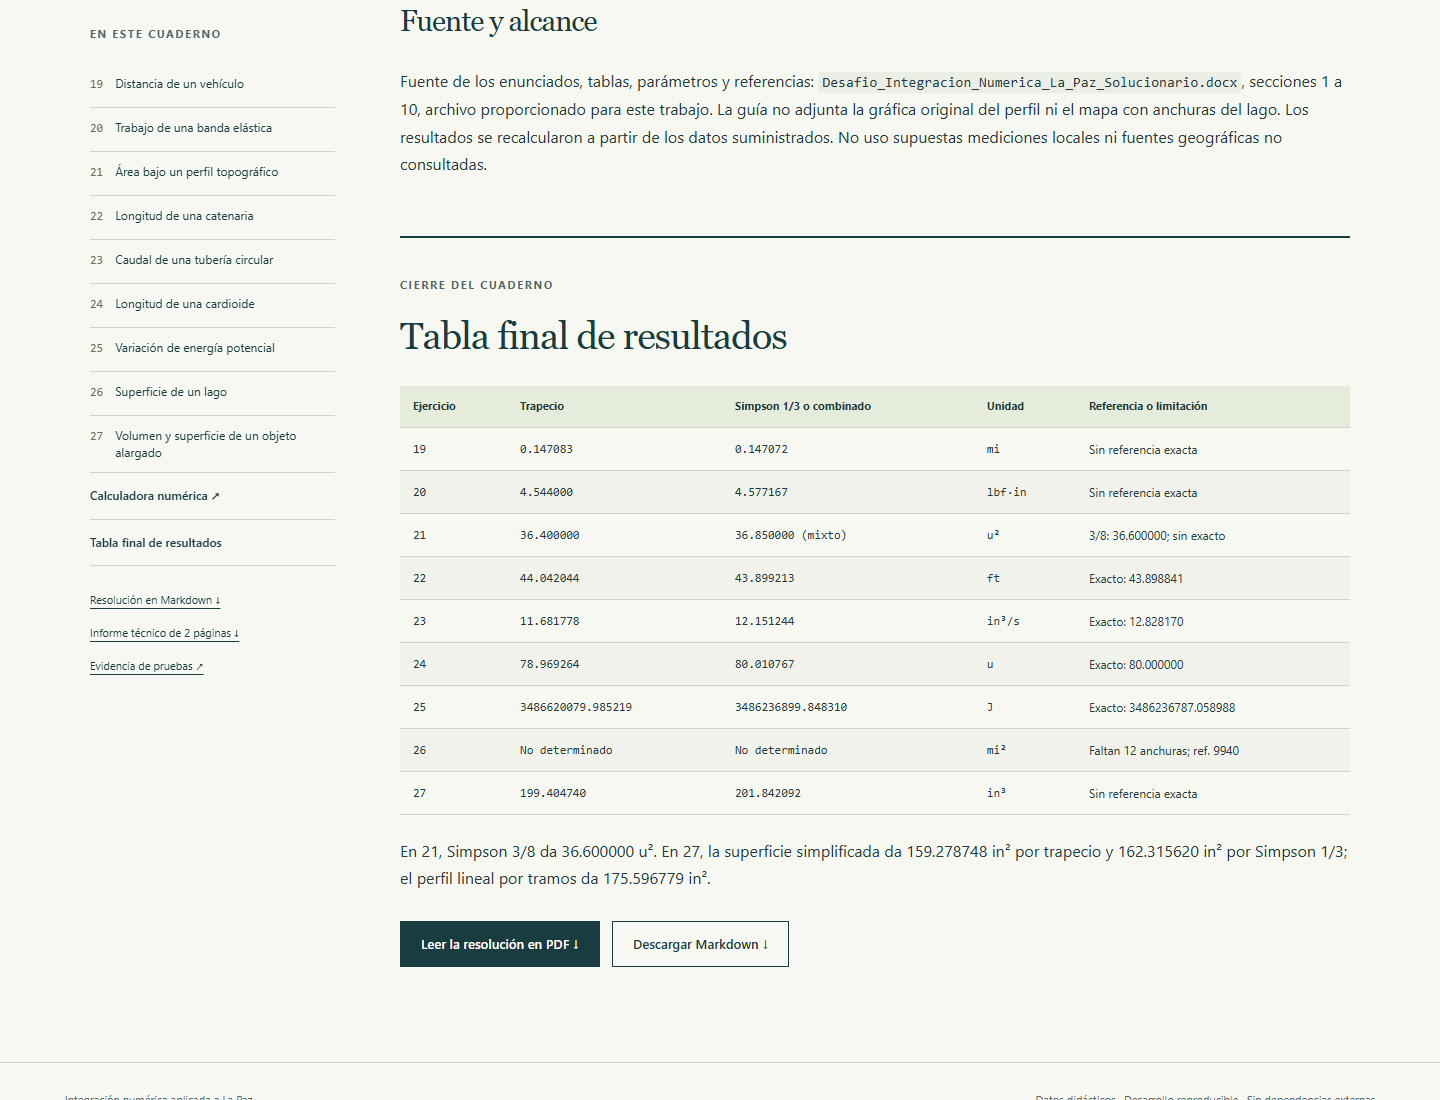
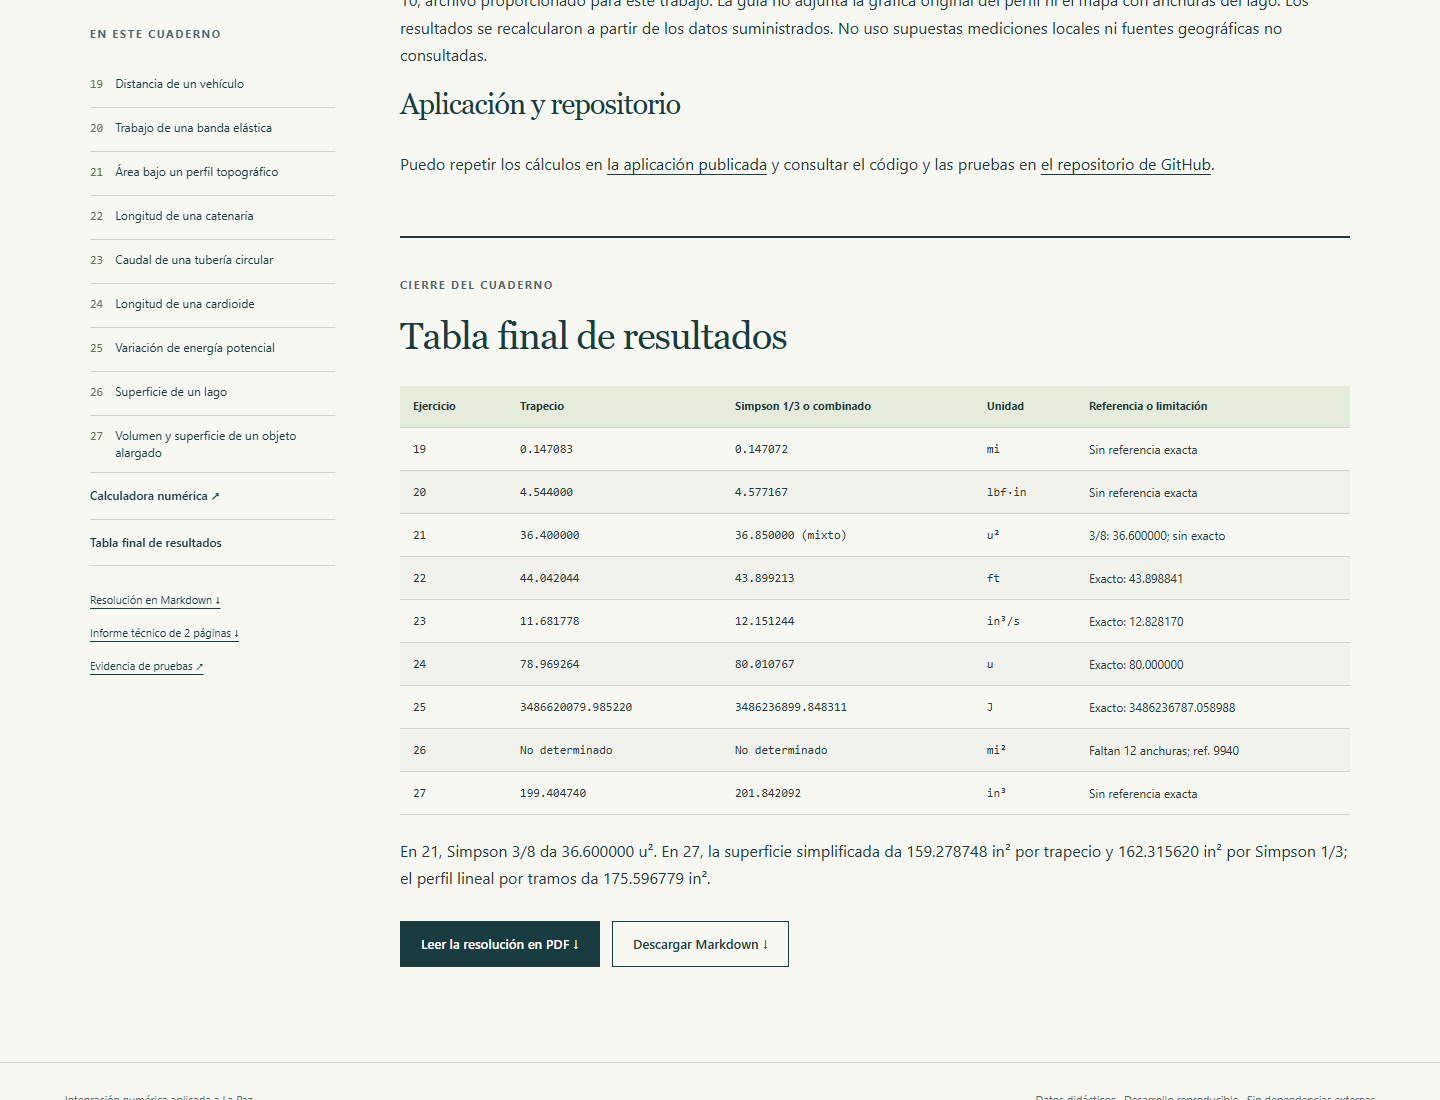
Verificar GitHub Pages y registrar evidencias de la publicación

Changed region(s): [[0.2812, 0.0, 0.9062, 0.1545]]

diff --git a/PUBLICACION.md b/PUBLICACION.md
@@ -1,10 +1,14 @@
 # Estado de publicación
 
-Los archivos están terminados y verificados localmente. El repositorio nuevo y público ya está creado; el despliegue de GitHub Pages está en preparación.
+Publicación completada y comprobada el 27 de octubre de 2026.
 
 Repositorio: https://github.com/iTzManix/integracion-numerica-la-paz-2026-10-27
 
-La sesión de GitHub CLI fue autorizada por el usuario. Esta entrega se publica desde la rama `main`, carpeta `/`.
+Página: https://itzmanix.github.io/integracion-numerica-la-paz-2026-10-27/
+
+GitHub Pages se configuró desde la rama `main`, carpeta `/`, y confirmó el primer despliegue con estado `built`. La URL respondió HTTP 200. Las 21 comprobaciones de navegador se ejecutaron sobre la página pública, incluidas la calculadora, las descargas y los anchos de pantalla de 375, 768, 1024 y 1440 px. El módulo numérico aprobó sus 47 pruebas. No se registraron fallos en estas comprobaciones.
+
+Los detalles están en `verificacion-web.md`, `verificacion-web.json`, `evidencia-pruebas.md` y `pruebas.json`. Las capturas se guardan en `evidencias/`. El informe técnico tiene dos páginas; la resolución completa, dieciséis.
 
 Para actualizaciones posteriores, desde esta carpeta:
 
@@ -14,4 +18,4 @@ git commit -m 'Actualizar resolución y página'
 git push origin main
 ```
 
-El estado final de GitHub Pages y la comprobación de la URL se registrarán aquí al terminar el despliegue.
+Los enlaces ya están incorporados a la resolución, al informe técnico y a la página. El script `publicar.ps1` sirve para una publicación inicial en un repositorio nuevo; no se debe volver a ejecutar sobre el repositorio ya creado.

diff --git a/README.md b/README.md
@@ -2,6 +2,8 @@
 
 Resolución de los ejercicios 19 a 27 de la guía proporcionada, página estática y calculadora numérica reproducible.
 
+[Abrir la página publicada](https://itzmanix.github.io/integracion-numerica-la-paz-2026-10-27/) · [Ver el repositorio](https://github.com/iTzManix/integracion-numerica-la-paz-2026-10-27)
+
 ## Abrir la página
 
 Abrir `index.html` en un navegador. No necesita instalación, servidor ni conexión a internet. Las descargas, los gráficos y los cálculos usan archivos locales. También puede servirse esta carpeta con cualquier servidor HTTP estático.

diff --git a/verificacion-web.md b/verificacion-web.md
@@ -1,6 +1,8 @@
 # Verificación de la página estática
 
-Fecha UTC: 2026-10-27T15:44:27.150Z. Navegador: Microsoft Edge headless / Playwright.
+Fecha UTC: 2026-10-27T15:47:36.890Z. Navegador: Microsoft Edge headless / Playwright.
+
+URL comprobada: https://itzmanix.github.io/integracion-numerica-la-paz-2026-10-27/
 
 | Comprobación | Estado | Evidencia |
 | --- | --- | --- |
